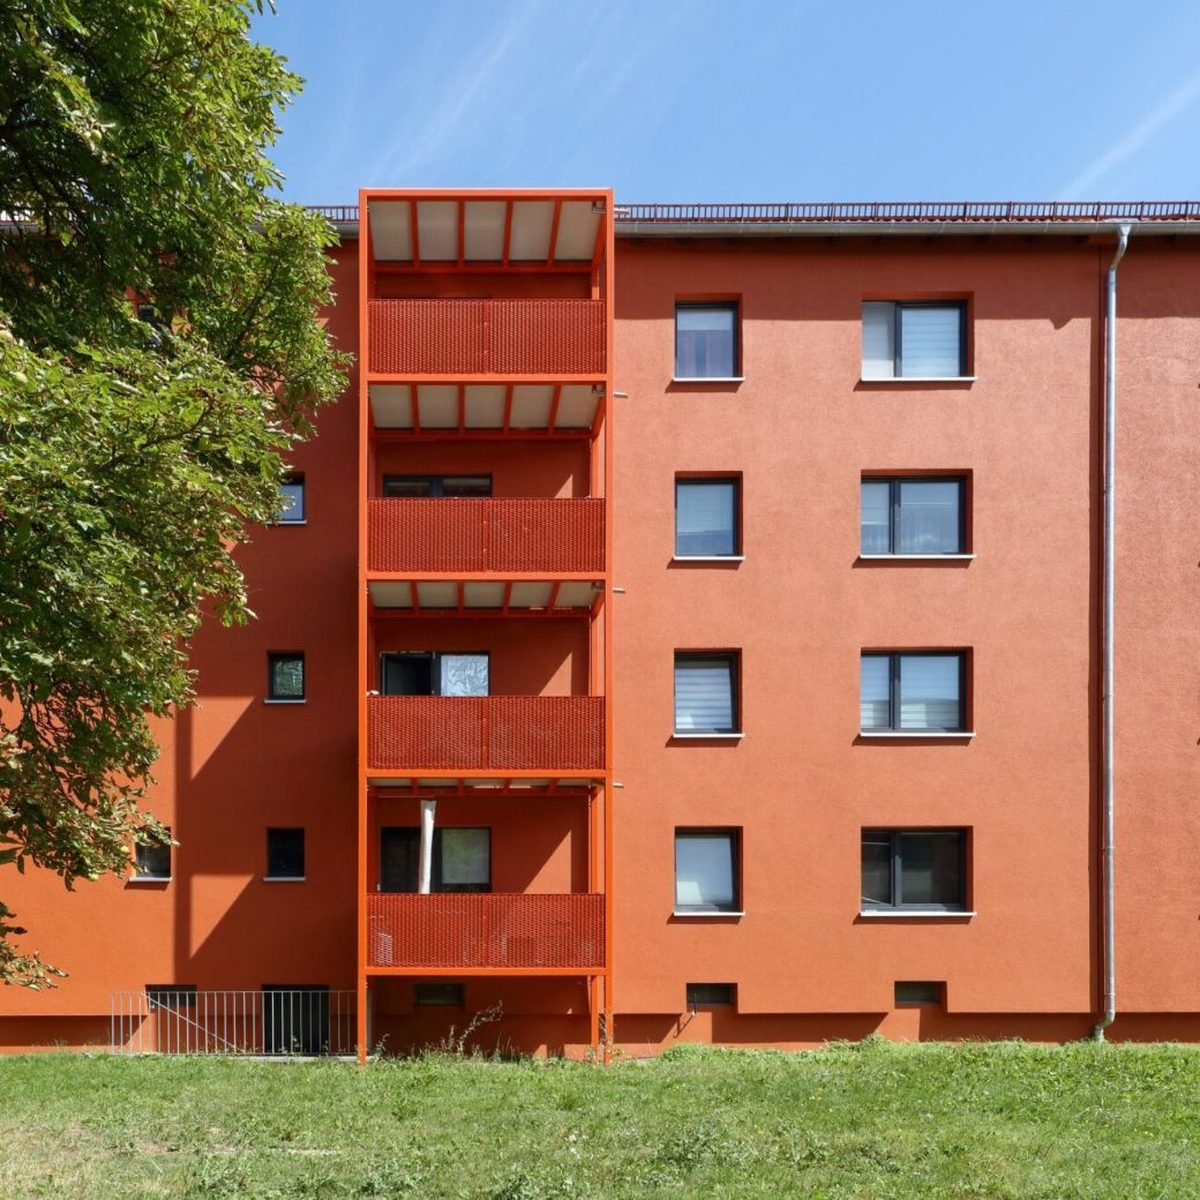
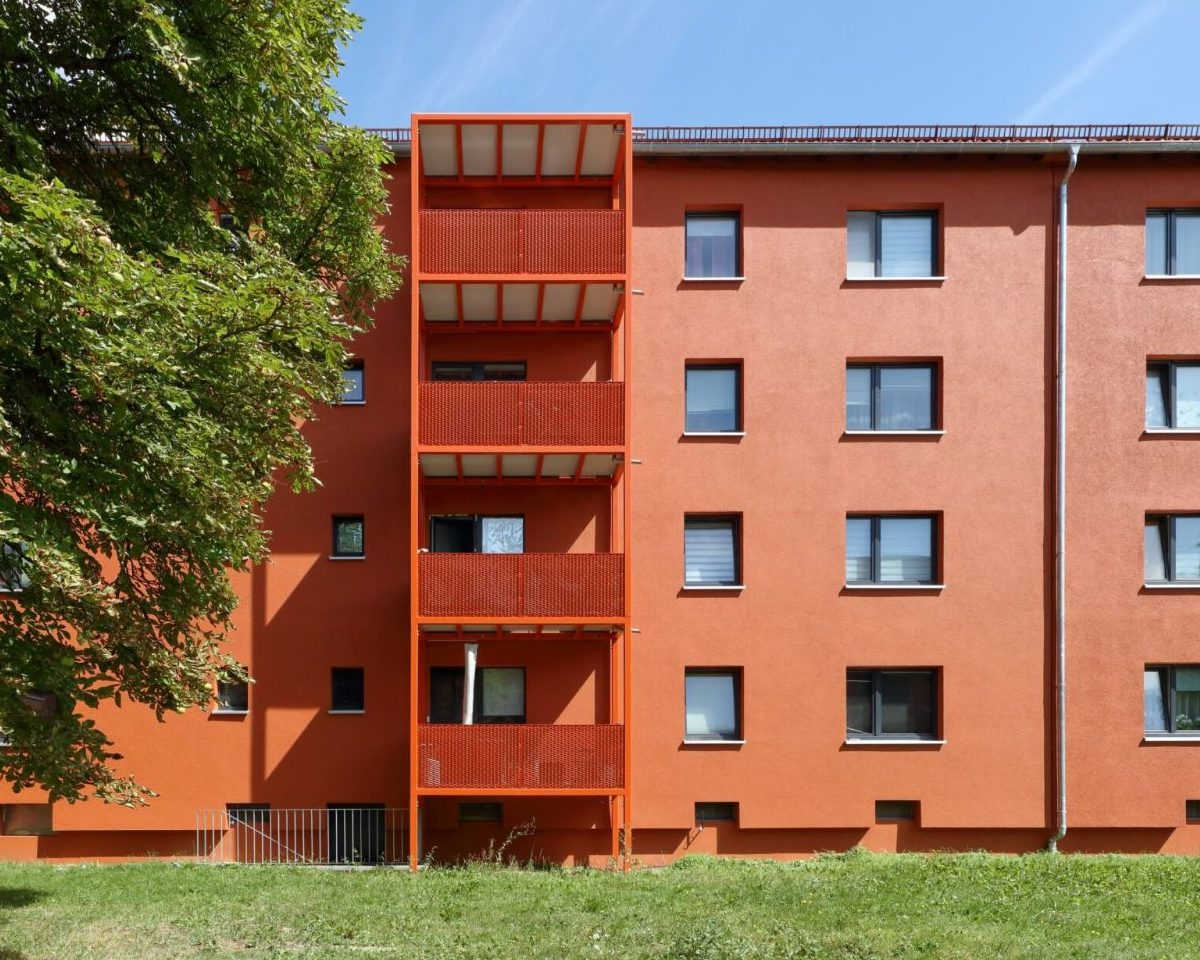
Projekte: Hero-Bildfeld niedriger (5:4) und mit wechselnden Feldern
Das Bildfeld hat jetzt das Format 5:4 statt 1:1; Grundbild und Einsätze
sind passend neu zugeschnitten. Vier weitere Ausschnitte kommen dazu
(Windsack auf Sichtbeton, Aluminiumfassade mit Funkturm, Holzlamellen,
Parkhausrampe mit Lichtringen). Jede Sekunde kehrt das älteste getauschte
Feld zum Grundbild zurück und ein anderer Ausschnitt blendet in einem
freien Feld ein. Bei reduzierter Bewegung bleibt das Bildfeld ruhig.

Claude-Session: https://claude.ai/code/session_015FoJGnDN9A3B6hpGFSQN3n

diff --git a/prototyp/assets/js/pages/projekte.js b/prototyp/assets/js/pages/projekte.js
@@ -234,3 +234,56 @@ Musikpavillon|2002|beleben|realisiert|oeffentlich|0
   }
   apply();
 })();
+
+/* Projekte — Bildfeld im Hero: jede Sekunde kehrt das älteste getauschte Feld
+   zum Grundbild zurück, dafür erscheint ein anderer Ausschnitt in einem freien Feld */
+(function () {
+  var box = document.getElementById('mosaic');
+  if (!box || window.matchMedia('(prefers-reduced-motion: reduce)').matches) return;
+  var DIR = 'assets/img/projekte-hero/';
+  var PARTS = [
+    ['teil-glas-treppenhaus', 'Treppenhaus mit Glasfassade'],
+    ['teil-holz-galerie', 'Galerie mit Holzeinbauten'],
+    ['teil-gold-gewoelbe', 'Goldene Wandpaneele unter Gewölbe'],
+    ['teil-windsack-beton', 'Sichtbetonbau mit Windsack auf dem Dach'],
+    ['teil-alu-fassade', 'Bürobau mit Aluminiumfassade und Funkturm'],
+    ['teil-holzlamellen', 'Holzlamellen vor Himmel'],
+    ['teil-rampe-ringe', 'Parkhausrampe mit Lichtringen']
+  ];
+  var CELLS = [];
+  for (var r = 1; r <= 3; r++) for (var c = 1; c <= 3; c++) CELLS.push(r + ';' + c);
+  var cellOf = function (img) { return img.style.getPropertyValue('--r') + ';' + img.style.getPropertyValue('--c'); };
+  var queue = Array.prototype.slice.call(box.querySelectorAll('.pj-mosaic__in'));
+  var gone = [];   /* zuletzt ausgeblendete Teile, kommen nicht gleich wieder */
+  var lines = box.querySelector('i');
+
+  /* alle Teile vorladen, damit der Wechsel nicht auf das Netz wartet */
+  PARTS.forEach(function (p) { new Image().src = DIR + p[0] + '.jpg'; });
+
+  function next() {
+    var old = queue.shift();
+    gone = [old.getAttribute('src')].concat(gone).slice(0, 2);
+    var srcs = queue.map(function (i) { return i.getAttribute('src'); }).concat(gone);
+    var cells = queue.concat(old).map(cellOf);
+    var parts = PARTS.filter(function (p) { return srcs.indexOf(DIR + p[0] + '.jpg') < 0; });
+    var free = CELLS.filter(function (k) { return cells.indexOf(k) < 0; });
+    var pick = parts[Math.floor(Math.random() * parts.length)];
+    var at = free[Math.floor(Math.random() * free.length)].split(';');
+
+    old.classList.add('is-off');
+    setTimeout(function () { old.remove(); }, 600);
+
+    var img = new Image();
+    img.className = 'pj-mosaic__in is-off';
+    img.alt = pick[1];
+    img.style.setProperty('--r', at[0]);
+    img.style.setProperty('--c', at[1]);
+    img.onload = function () {
+      box.insertBefore(img, lines);
+      requestAnimationFrame(function () { requestAnimationFrame(function () { img.classList.remove('is-off'); }); });
+    };
+    img.src = DIR + pick[0] + '.jpg';
+    queue.push(img);
+  }
+  setInterval(function () { if (!document.hidden) next(); }, 1000);
+})();

diff --git a/prototyp/assets/css/pages/projekte.css b/prototyp/assets/css/pages/projekte.css
@@ -2,15 +2,17 @@
    Alles Weitere (Hero, Band, Kacheln, Buttons) kommt aus site.css. */
 
 /* Bildfeld: ein Projektbild, von zwei Fugen in neun Felder geteilt,
-   drei Felder sind gegen andere Projekte getauscht. */
-.pj-mosaic{position:relative;aspect-ratio:1/1;overflow:hidden;background:var(--shade)}
+   drei Felder sind gegen andere Projekte getauscht (wechseln per projekte.js). */
+.pj-mosaic{position:relative;aspect-ratio:5/4;overflow:hidden;background:var(--shade)}
 .pj-mosaic img{position:absolute;object-fit:cover;display:block}
 .pj-mosaic__base{inset:0;width:100%;height:100%}
 .pj-mosaic__in{
   width:calc(100% / 3);height:calc(100% / 3);
   left:calc((var(--c) - 1) * 100% / 3);top:calc((var(--r) - 1) * 100% / 3);
-  z-index:1;
+  z-index:1;transition:opacity .5s var(--ease);
 }
+.pj-mosaic__in.is-off{opacity:0}
+@media (prefers-reduced-motion:reduce){.pj-mosaic__in{transition:none}}
 .pj-mosaic i{position:absolute;background:var(--paper);z-index:2}
 .pj-mosaic i.v{top:0;bottom:0;width:3px;left:calc(var(--p) * 100% / 3 - 1.5px)}
 .pj-mosaic i.h{left:0;right:0;height:3px;top:calc(var(--p) * 100% / 3 - 1.5px)}

diff --git a/prototyp/projekte.html b/prototyp/projekte.html
@@ -47,7 +47,7 @@
         </div>
       </div>
       <div class="s-5 o-8">
-        <div class="pj-mosaic" role="img" aria-label="Bildfeld aus Projekten von hochstrasser.: Wohnhaus mit roter Fassade und Balkonturm, darin eingesetzt ein gläsernes Treppenhaus, eine Holzgalerie und goldene Wandpaneele unter einem Gewölbe">
+        <div class="pj-mosaic" id="mosaic" role="img" aria-label="Bildfeld aus Projekten von hochstrasser.: Wohnhaus mit roter Fassade und Balkonturm, darin wechselnd Ausschnitte weiterer Projekte">
           <img class="pj-mosaic__base" src="assets/img/projekte-hero/basis-rotes-haus.jpg" alt="Wohnhaus mit roter Fassade und Balkonturm">
           <img class="pj-mosaic__in" style="--r:1;--c:3" src="assets/img/projekte-hero/teil-glas-treppenhaus.jpg" alt="Treppenhaus mit Glasfassade">
           <img class="pj-mosaic__in" style="--r:2;--c:1" src="assets/img/projekte-hero/teil-holz-galerie.jpg" alt="Galerie mit Holzeinbauten">
